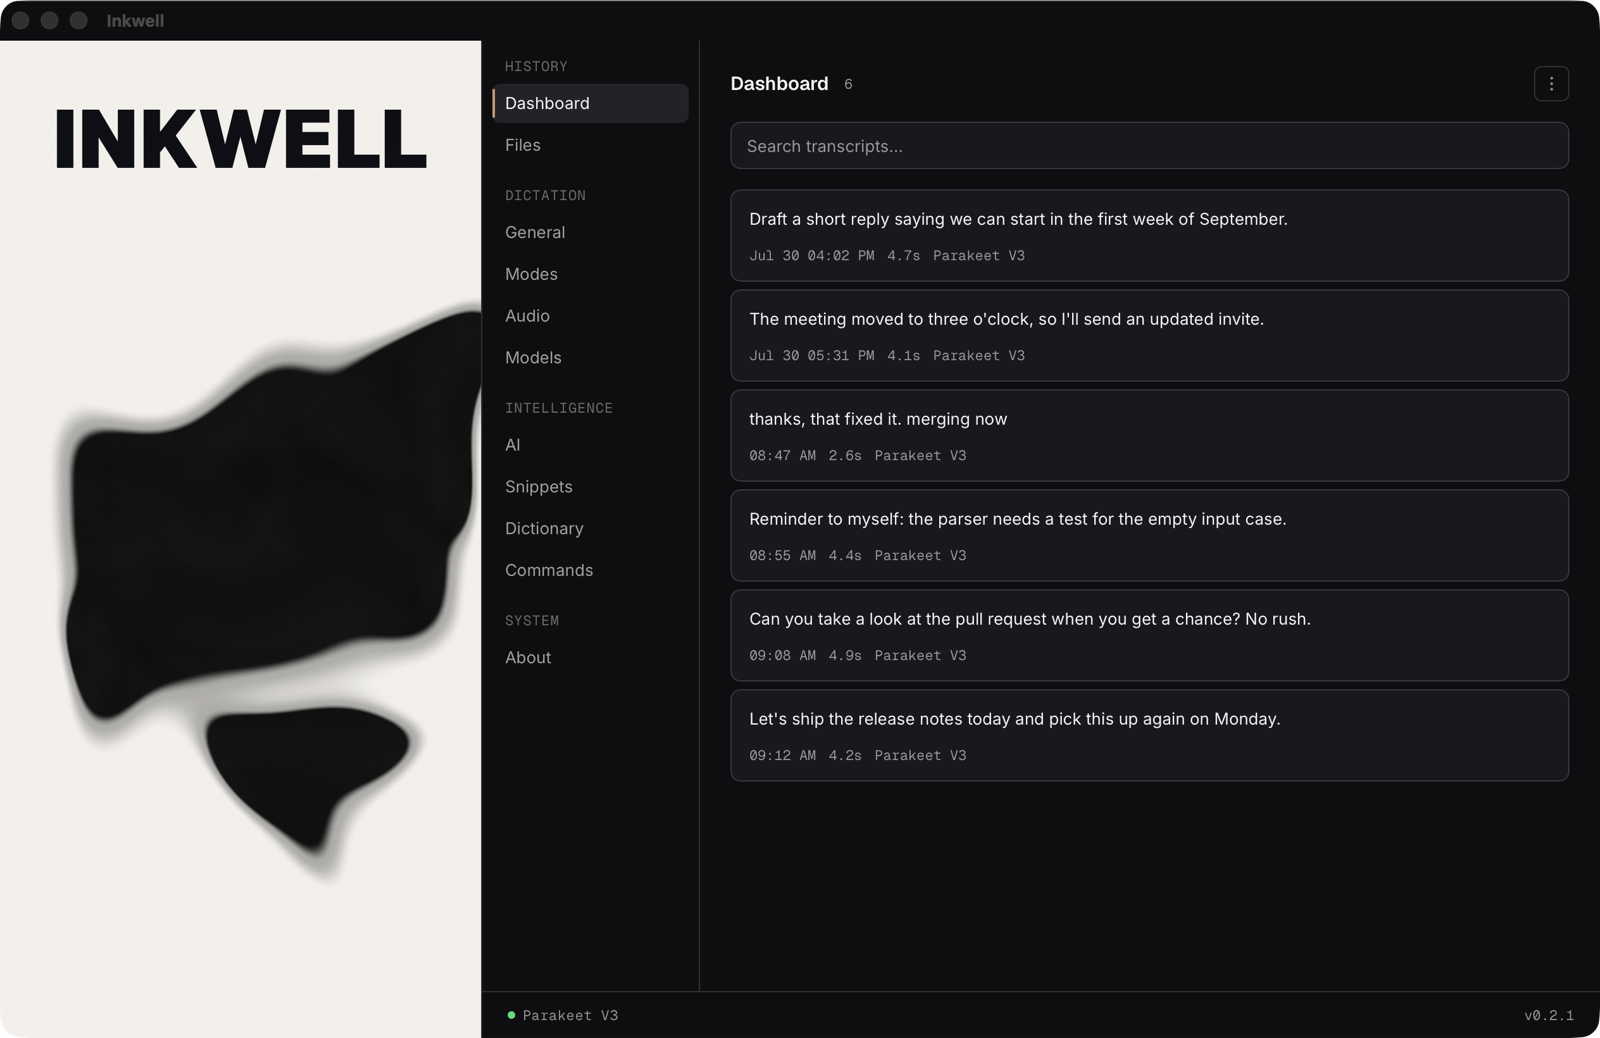
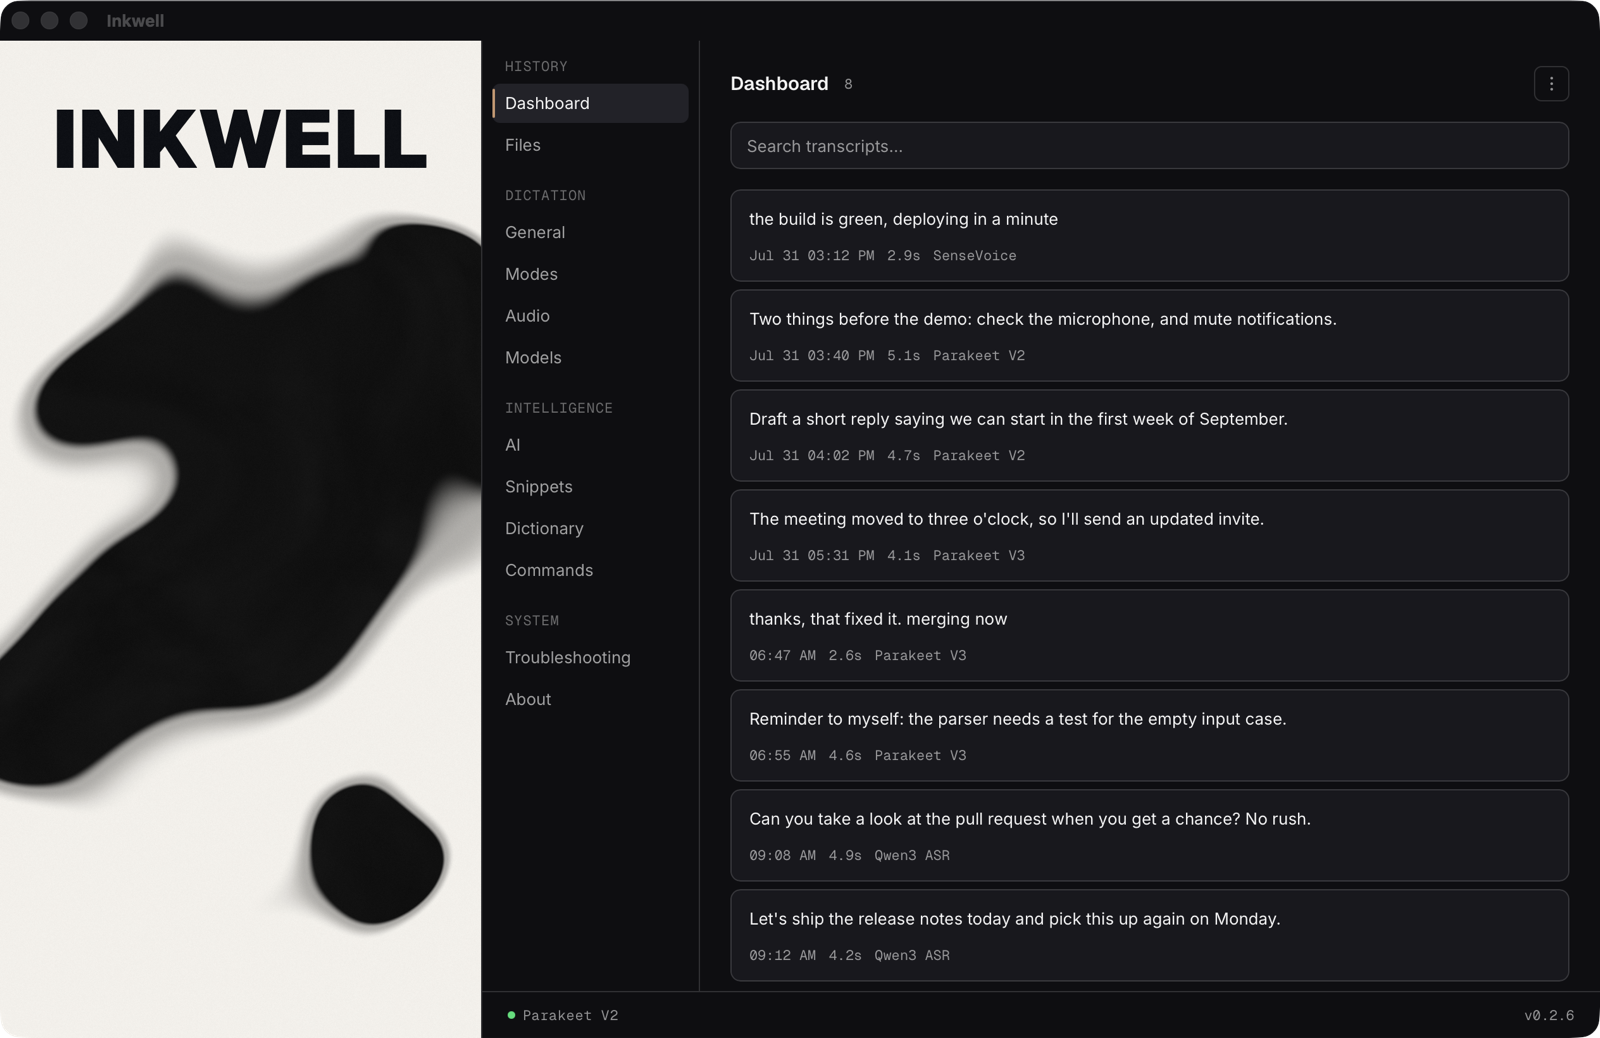
docs: a Groq walkthrough, and screenshots of the two features prose cannot show
The only setup step in Inkwell that involves another website had no
instructions. "Needs an API key" is a wall if you have never made one,
and it gates the feature most likely to sell the app. Six steps, named
buttons, and the reason Groq specifically: free tier, no card, fast
enough that the rewrite feels instant.

Screenshots earn their place rather than decorating. Modes is the feature
that reads as abstract in a bullet list and is obvious in one image, so it
gets one next to its own explanation. The AI tab sits inside the key
walkthrough, where a reader is looking for the field being described.

The hero shot was captured from v0.2.1 and showed a sidebar that no longer
matches the app. Replaced from 0.2.6, with invented transcripts rather
than a real history.

diff --git a/README.md b/README.md
@@ -38,6 +38,14 @@ Inkwell is free and stays free. MIT licensed, no paid tier, no license keys, no 
 - **Speech cleanup.** "um", "uh" and immediate stutters removed before the text is pasted, without changing what the sentence says.
 - **AI polish (optional, off by default).** Bring your own API key to clean up grammar and false starts. See below.
 
+### Modes, the part that is hard to picture
+
+A mode bundles a writing style, speech cleanup and AI polish, and switches itself on based on which app you are typing into. Formal and polished in email, lowercase and unpunctuated in Slack, without touching a setting. The first mode whose app list matches wins; otherwise the default applies.
+
+<picture>
+  <img src="docs/media/inkwell-modes.png" alt="The Modes tab, showing a Default mode plus Casual and Relaxed modes bound to lists of application identifiers" width="900">
+</picture>
+
 ## Privacy
 
 - Audio is captured, resampled and transcribed locally. It is never uploaded.
@@ -110,6 +118,28 @@ All models run locally on CPU. No internet is needed once a model is downloaded.
 Select text anywhere, hold the edit hotkey (Cmd+Shift+E on macOS, Ctrl+Shift+E elsewhere), say what to change, and the rewrite replaces the selection. "Make this shorter", "fix the grammar", "turn this into bullet points".
 
 This needs an API key, because rewriting text to order is a language-model job and Inkwell has no model of its own to do it with. Dictation itself stays entirely local and needs no key. Clear the hotkey in General to turn the feature off and free the shortcut.
+
+## Getting a free API key
+
+Voice editing and AI polish are the only features that need one. Groq has a free tier that covers ordinary personal use, needs no credit card, and is fast enough that the rewrite feels instant. It takes about two minutes.
+
+1. Go to **[console.groq.com](https://console.groq.com)** and sign in with Google, GitHub or email.
+2. Open **API Keys** in the left sidebar, then **Create API Key**. Name it anything, "Inkwell" is fine.
+3. Copy the key **now**. It starts with `gsk_`, and Groq shows it once. If you lose it, delete that key and make another.
+4. In Inkwell, open **AI** in the sidebar. Groq is the first tab, marked `free key`.
+5. Paste the key into the field and it saves itself. The warning at the top disappears.
+6. Turn on the **AI Polish** toggle if you want it applied to ordinary dictation as well. Voice editing works either way.
+
+<picture>
+  <img src="docs/media/inkwell-ai.png" alt="The AI tab, showing the API key field with Groq selected and marked as a free key" width="900">
+</picture>
+
+Your key is stored in the operating system keyring, macOS Keychain or the Windows Credential Manager, never in a config file in plain text. It is sent directly from your machine to the provider you chose. There is no server belonging to this project in the path.
+
+> [!IMPORTANT]
+> Dictation never needs a key and never leaves your machine. This is only for the two features that rewrite text. If you skip this section entirely, everything else still works.
+
+Prefer a different provider? OpenAI, Anthropic and OpenRouter are on the same screen, as is any OpenAI-compatible endpoint if you run your own.
 
 ## Not built (so you do not have to ask)
 
